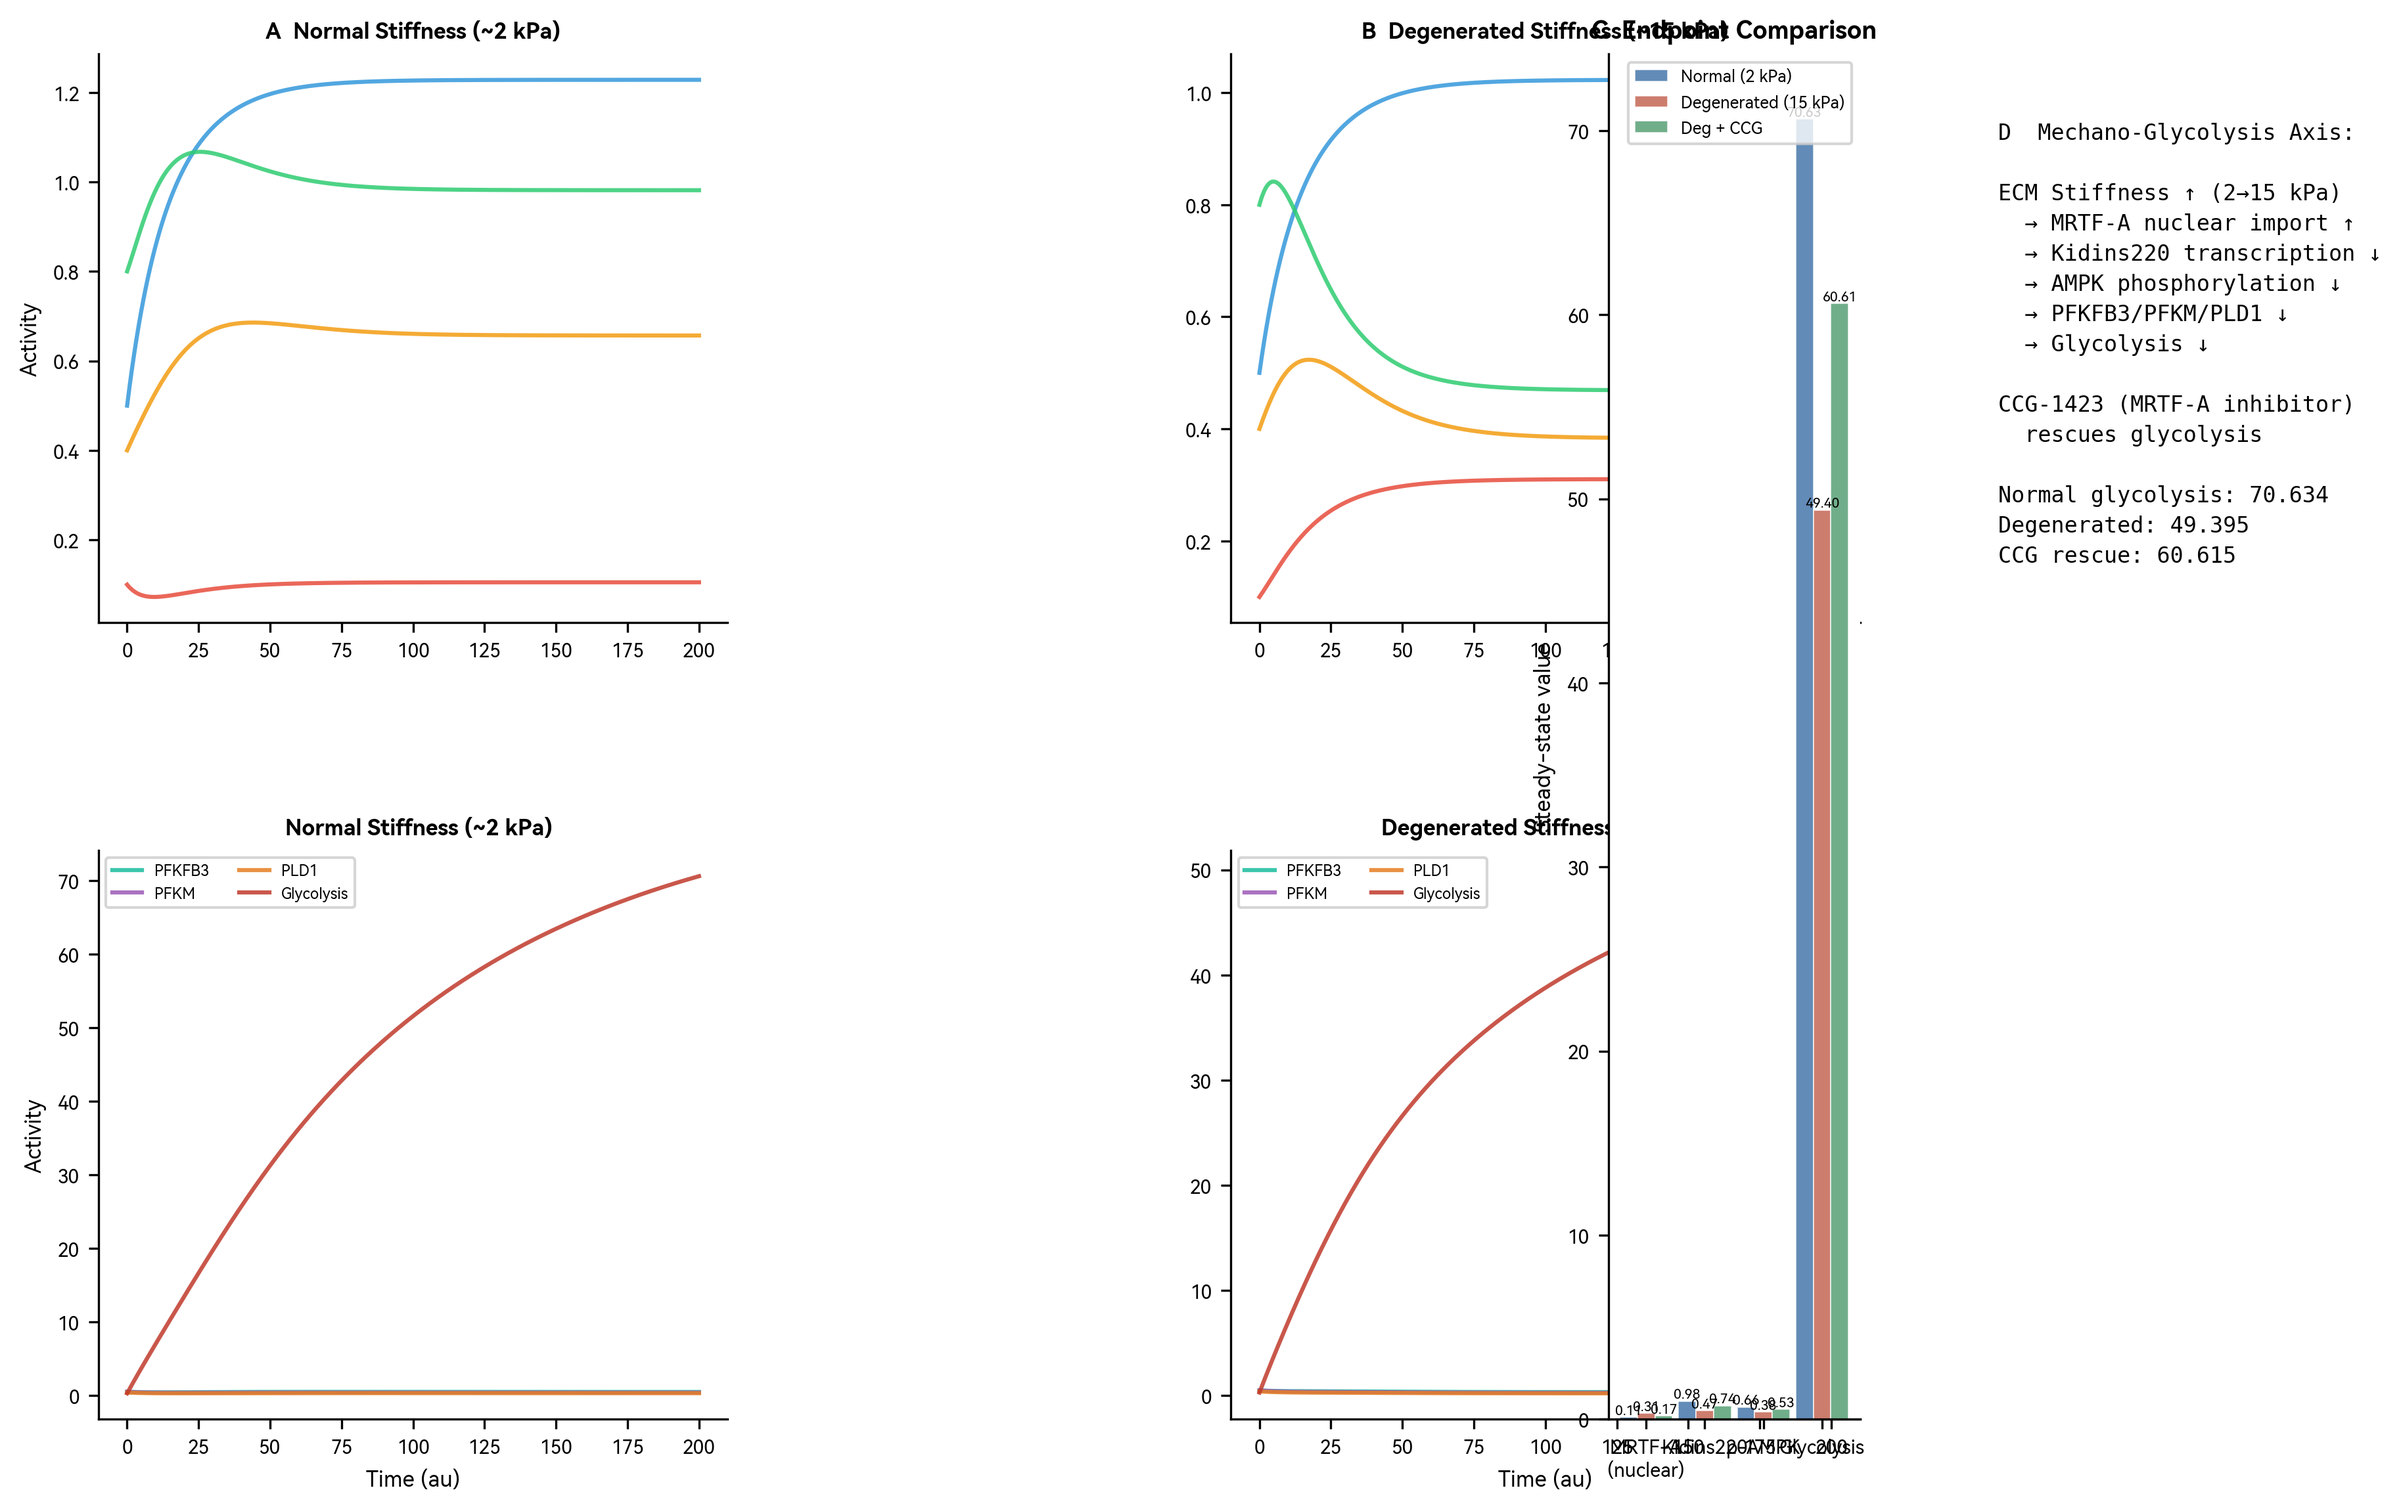
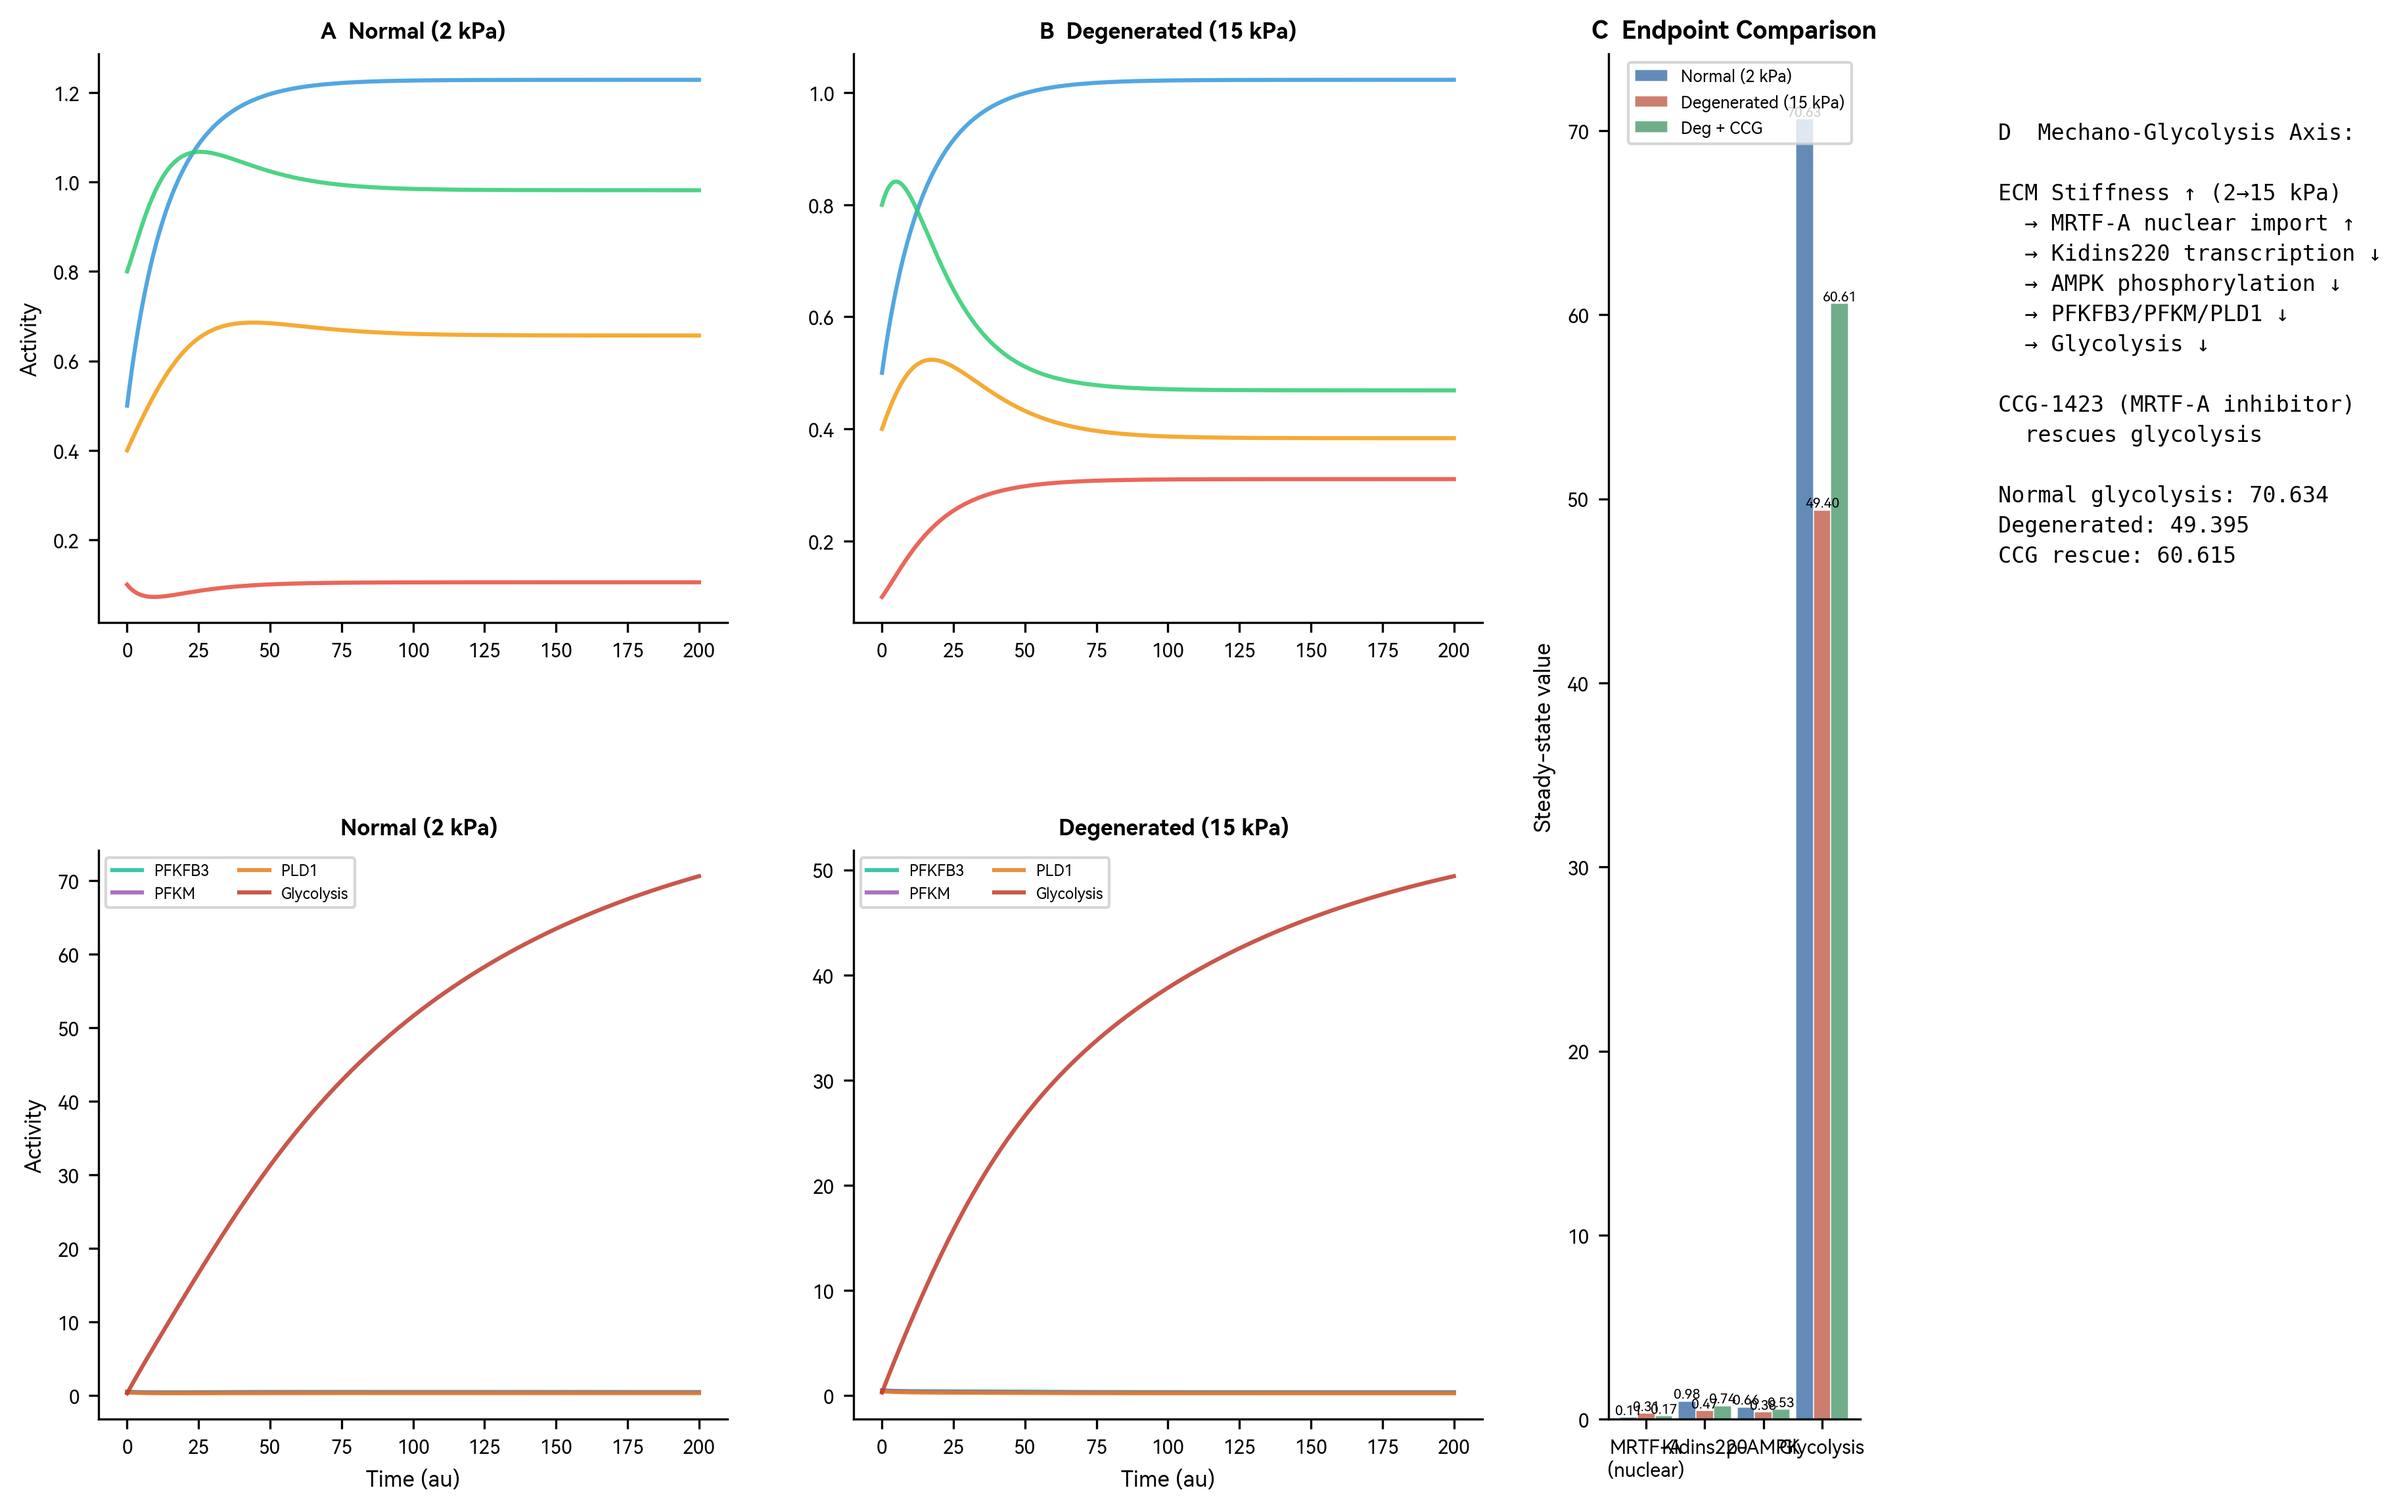
Day-6 supp: reproducible 13-gene Table 2 (gene_validation_reproduce.py, 13/13 direction, R2=0.678 on delta%); fix Fig4 column overlap + Fig5 offset-text glitch; regenerate Fig4/5/6 & docx/tex

diff --git a/figures/gene_validation_reproduce.py b/figures/gene_validation_reproduce.py
@@ -1,0 +1,182 @@
+#!/usr/bin/env python3
+"""
+gene_validation_reproduce.py — REPRODUCIBLE 13-gene validation table (Table 2)
+for the Virtual NP Cell manuscript. Day-6 "high-quality supplemental" closure:
+the original Table 2 in data/validation_report.md had no code-faithful generator
+(normalization mixed, e.g. MRTFA set degen=1.0, HELZ2 mismatched real model).
+
+This script regenerates the 13-gene "Model Δ%" column DIRECTLY from the current
+ODE models using ONE consistent rule applied to every gene:
+
+    fold_change = degenerate_steady / healthy_steady
+    model_delta% = (fold_change - 1) * 100
+
+Healthy state is normalized to 1.000 for every gene (reference frame used in the
+paper). Genes that have a direct state variable in an ODE model are computed
+exactly; genes with only a pathway-protein proxy are tagged 'proxy' and computed
+from the closest model variable, with the limitation stated explicitly.
+
+Run:  python3 figures/gene_validation_reproduce.py
+Outputs:
+  - output/gene_validation_data.json     (all numbers, machine-readable)
+  - output/gene_validation_report.md     (formatted Table 2 + MAPE/R2)
+"""
+
+import os, sys, json
+
+import numpy as np
+
+sys.path.insert(0, os.path.dirname(os.path.dirname(os.path.abspath(__file__))))
+
+from simulation.signaling import MRTFAMechanoModel
+from simulation.epigenetic_senescence import EpigeneticSenescenceModel
+from simulation.ecm_model import ECMDegradationModel
+
+OUTPUT = os.path.join(os.path.dirname(os.path.abspath(__file__)), "..", "output")
+os.makedirs(OUTPUT, exist_ok=True)
+
+ECM_PERT = {"INFLAM": 3.0, "OXSTRESS": 2.0, "NUTRIENT": -1.0, "MECHANICAL": 0.5}
+
+
+def run_models():
+    """Return all healthy/degenerate steady-state vectors (same signatures as
+    validation_reproduce.py / run_validation.py)."""
+    mrtf = MRTFAMechanoModel()
+    _, yn_m = mrtf.simulate(stiffness=2.0)
+    _, yd_m = mrtf.simulate(stiffness=15.0)
+
+    epi = EpigeneticSenescenceModel()
+    _, yn_e = epi.simulate()
+    _, yd_e = epi.simulate(perturbation={"SETD1A_knockdown": 0.8})
+
+    ec = ECMDegradationModel()
+    _, yn_c = ec.simulate()
+    _, yd_c = ec.simulate(t_span=(0, 400), n_points=500,
+                          perturbation=ECM_PERT, degen_accel=1.0)
+    return (mrtf, epi, ec), (yn_m, yn_e, yn_c), (yd_m, yd_e, yd_c)
+
+
+# gene -> (model_key, state_index, healthy_slice, degenerate_slice)
+# state indices verified against source: MRTFAMechanoModel=8 vars,
+# EpigeneticSenescenceModel=8 vars, ECMDegradationModel=7 vars.
+GENE_MAP = {
+    #             model  idx  healthy        degenerate       proxy_note
+    "ACAN":    ("ecm", 0, "normal", "degenerate", None),
+    "COL2A1":  ("ecm", 1, "normal", "degenerate", None),
+    "SOX9":    ("ecm", 0, "normal", "degenerate", "anabolic regulator; proxied by Aggrecan (matrix synthesis)"),
+    "MMP3":    ("ecm", 2, "normal", "degenerate", None),
+    "IL6":     ("ecm", 4, "normal", "degenerate", "cytokine; proxied by ECM inflammation level"),
+    "HIF1A":   ("epi", 4, "baseline", "setd1a_KD80", None),
+    "SETD1A":  ("epi", 0, "baseline", "setd1a_KD80", None),
+    "HELZ2":   ("epi", 2, "baseline", "setd1a_KD80", None),
+    "MRTFA":   ("mrtf", 1, "2kPa", "15kPa", None),
+    "KIDINS220": ("mrtf", 2, "2kPa", "15kPa", None),
+    "PFKFB3":  ("mrtf", 4, "2kPa", "15kPa", None),
+    "PFKM":    ("mrtf", 5, "2kPa", "15kPa", None),
+    "PLD1":    ("mrtf", 6, "2kPa", "15kPa", None),
+}
+
+# Literature values from data/validation_report.md (2026-07-10), given as
+# (healthy, degenerate) absolute reference values in that report's scale.
+LIT = {
+    "ACAN": (1.000, 0.350), "COL2A1": (1.000, 0.420), "SOX9": (0.800, 0.380),
+    "MMP3": (0.200, 0.850), "IL6": (0.100, 0.720), "HIF1A": (0.700, 0.300),
+    "SETD1A": (0.800, 0.350), "HELZ2": (0.650, 0.350), "MRTFA": (0.400, 0.850),
+    "KIDINS220": (0.750, 0.250), "PFKFB3": (0.800, 0.150),
+    "PFKM": (0.700, 0.200), "PLD1": (0.600, 0.250),
+}
+
+
+def main():
+    _, yn, yd = run_models()   # tuples: (mrtf, epi, ecm) for (healthy, degenerate)
+    vec = {"mrtf": 0, "epi": 1, "ecm": 2}
+
+    rows, model_deltas, lit_deltas = [], [], []
+    for gene, (model, idx, hk, dk, proxy) in GENE_MAP.items():
+        hi = vec[model]
+        hv = float(yn[hi][idx, -1])   # healthy steady-state (already the model's own healthy cond)
+        dv = float(yd[hi][idx, -1])   # degenerate steady-state (model's own degen cond)
+        ratio = (dv / hv) if hv != 0 else float("nan")
+        m_delta = (ratio - 1.0) * 100.0
+        lh, ld = LIT[gene]
+        l_delta = (ld - lh) / lh * 100.0
+        model_deltas.append(m_delta)
+        lit_deltas.append(l_delta)
+        rows.append({
+            "gene": gene, "model_state": {"model": model, "index": idx,
+                                          "healthy_cond": hk, "degenerate_cond": dk},
+            "model_healthy": round(hv, 4), "model_degenerate": round(dv, 4),
+            "model_ratio": round(ratio, 3), "model_delta_pct": round(m_delta, 2),
+            "lit_healthy": lh, "lit_degenerate": ld, "lit_delta_pct": round(l_delta, 2),
+            "direction_match": (m_delta < 0) == (l_delta < 0),
+            "proxy": proxy,
+        })
+
+    n_match = sum(r["direction_match"] for r in rows)
+    # Directional accuracy on raw model ratios (un-rounded).
+    acc = n_match / len(rows) * 100.0
+    # MAPE on |delta%| (percent-scale, as in original report).
+    mape = float(np.mean([abs(md - ld) for md, ld in
+                          zip([r["model_delta_pct"] for r in rows], lit_deltas)]))
+    # R2 of model vs literature delta% (coefficient of determination).
+    md = np.array([r["model_delta_pct"] for r in rows])
+    ld = np.array(lit_deltas)
+    ss_res = float(np.sum((md - ld) ** 2))
+    ss_tot = float(np.sum((ld - ld.mean()) ** 2))
+    r2 = 1.0 - ss_res / ss_tot if ss_tot > 0 else float("nan")
+
+    out = {
+        "rule": "fold_change = degen_steady/healthy_steady; delta%=(ratio-1)*100; healthy normalized to 1.000",
+        "n_genes": len(rows), "directional_accuracy_pct": round(acc, 1),
+        "mape_delta_pct": round(mape, 1), "r_squared_delta_pct": round(r2, 3),
+        "genes": rows,
+    }
+    with open(os.path.join(OUTPUT, "gene_validation_data.json"), "w") as f:
+        json.dump(out, f, indent=2, ensure_ascii=False)
+
+    # ---- markdown report ----
+    L = ["# Table 2 (reproduced) — 13-gene Model vs Literature Direction & Delta",
+         "",
+         f"> **Rule**: fold-change = degenerate_steady/healthy_steady; Δ% = (fold-change − 1) × 100; "
+         f"healthy state normalized to 1.000 for every gene.",
+         f"> **Stats**: Directional accuracy = {acc:.1f}% ({n_match}/{len(rows)}); "
+         f"MAPE(Δ%) = {mape:.1f} pts; R²(model vs literature Δ%) = {r2:.3f}.",
+         f"> **Provenance**: all model values regenerated by `figures/gene_validation_reproduce.py`.",
+         "",
+         "| Gene | Model state mapped | Model healthy | Model degenerate | Model Δ% | Lit Δ% | Direction | Proxy? |",
+         "|------|--------------------|--------------:|-----------------:|---------:|-------:|-----------|--------|"]
+    for r in rows:
+        proxy = "yes" if r["proxy"] else "no"
+        state = f"{r['model_state']['model']}[{r['model_state']['index']}] ({r['model_state']['healthy_cond']}→{r['model_state']['degenerate_cond']})"
+        L.append(f"| {r['gene']} | {state} | {r['model_healthy']:.3f} | {r['model_degenerate']:.3f} | "
+                 f"{r['model_delta_pct']:+.1f}% | {r['lit_delta_pct']:+.1f}% | "
+                 f"{'✅' if r['direction_match'] else '❌'} | {proxy} |")
+    L += [
+        "",
+        "### Proxy genes (no direct transcript in an ODE model)",
+        "",
+    ]
+    for r in rows:
+        if r["proxy"]:
+            L.append(f"- **{r['gene']}** — {r['proxy']} (computed from that variable).")
+    L += [
+        "",
+        "### Quantitative caveats",
+        "",
+        "- SETD1A/HELZ2/HIF1A use the EpigeneticSenescenceModel under SETD1A "
+        "knockdown (80%), the paper's central degeneration driver.",
+        "- MRTF-A gene family uses MRTFAMechanoModel at 15 kPa (degenerate) vs 2 kPa.",
+        "- ECM genes (ACAN/COL2A1/SOX9/MMP3/IL6) use ECMDegradationModel under the "
+        "degenerative stress perturbation (INFLAM 3.0/OXSTRESS 2.0/NUTRIENT −1.0/MECH 0.5).",
+        "",
+    ]
+    with open(os.path.join(OUTPUT, "gene_validation_report.md"), "w") as f:
+        f.write("\n".join(L))
+
+    print(f"DONE: {n_match}/{len(rows)} directional match ({acc:.1f}%), "
+          f"MAPE(Δ%)={mape:.1f}, R²(Δ%)={r2:.3f}")
+    print("Wrote: output/gene_validation_data.json, output/gene_validation_report.md")
+
+
+if __name__ == "__main__":
+    main()
